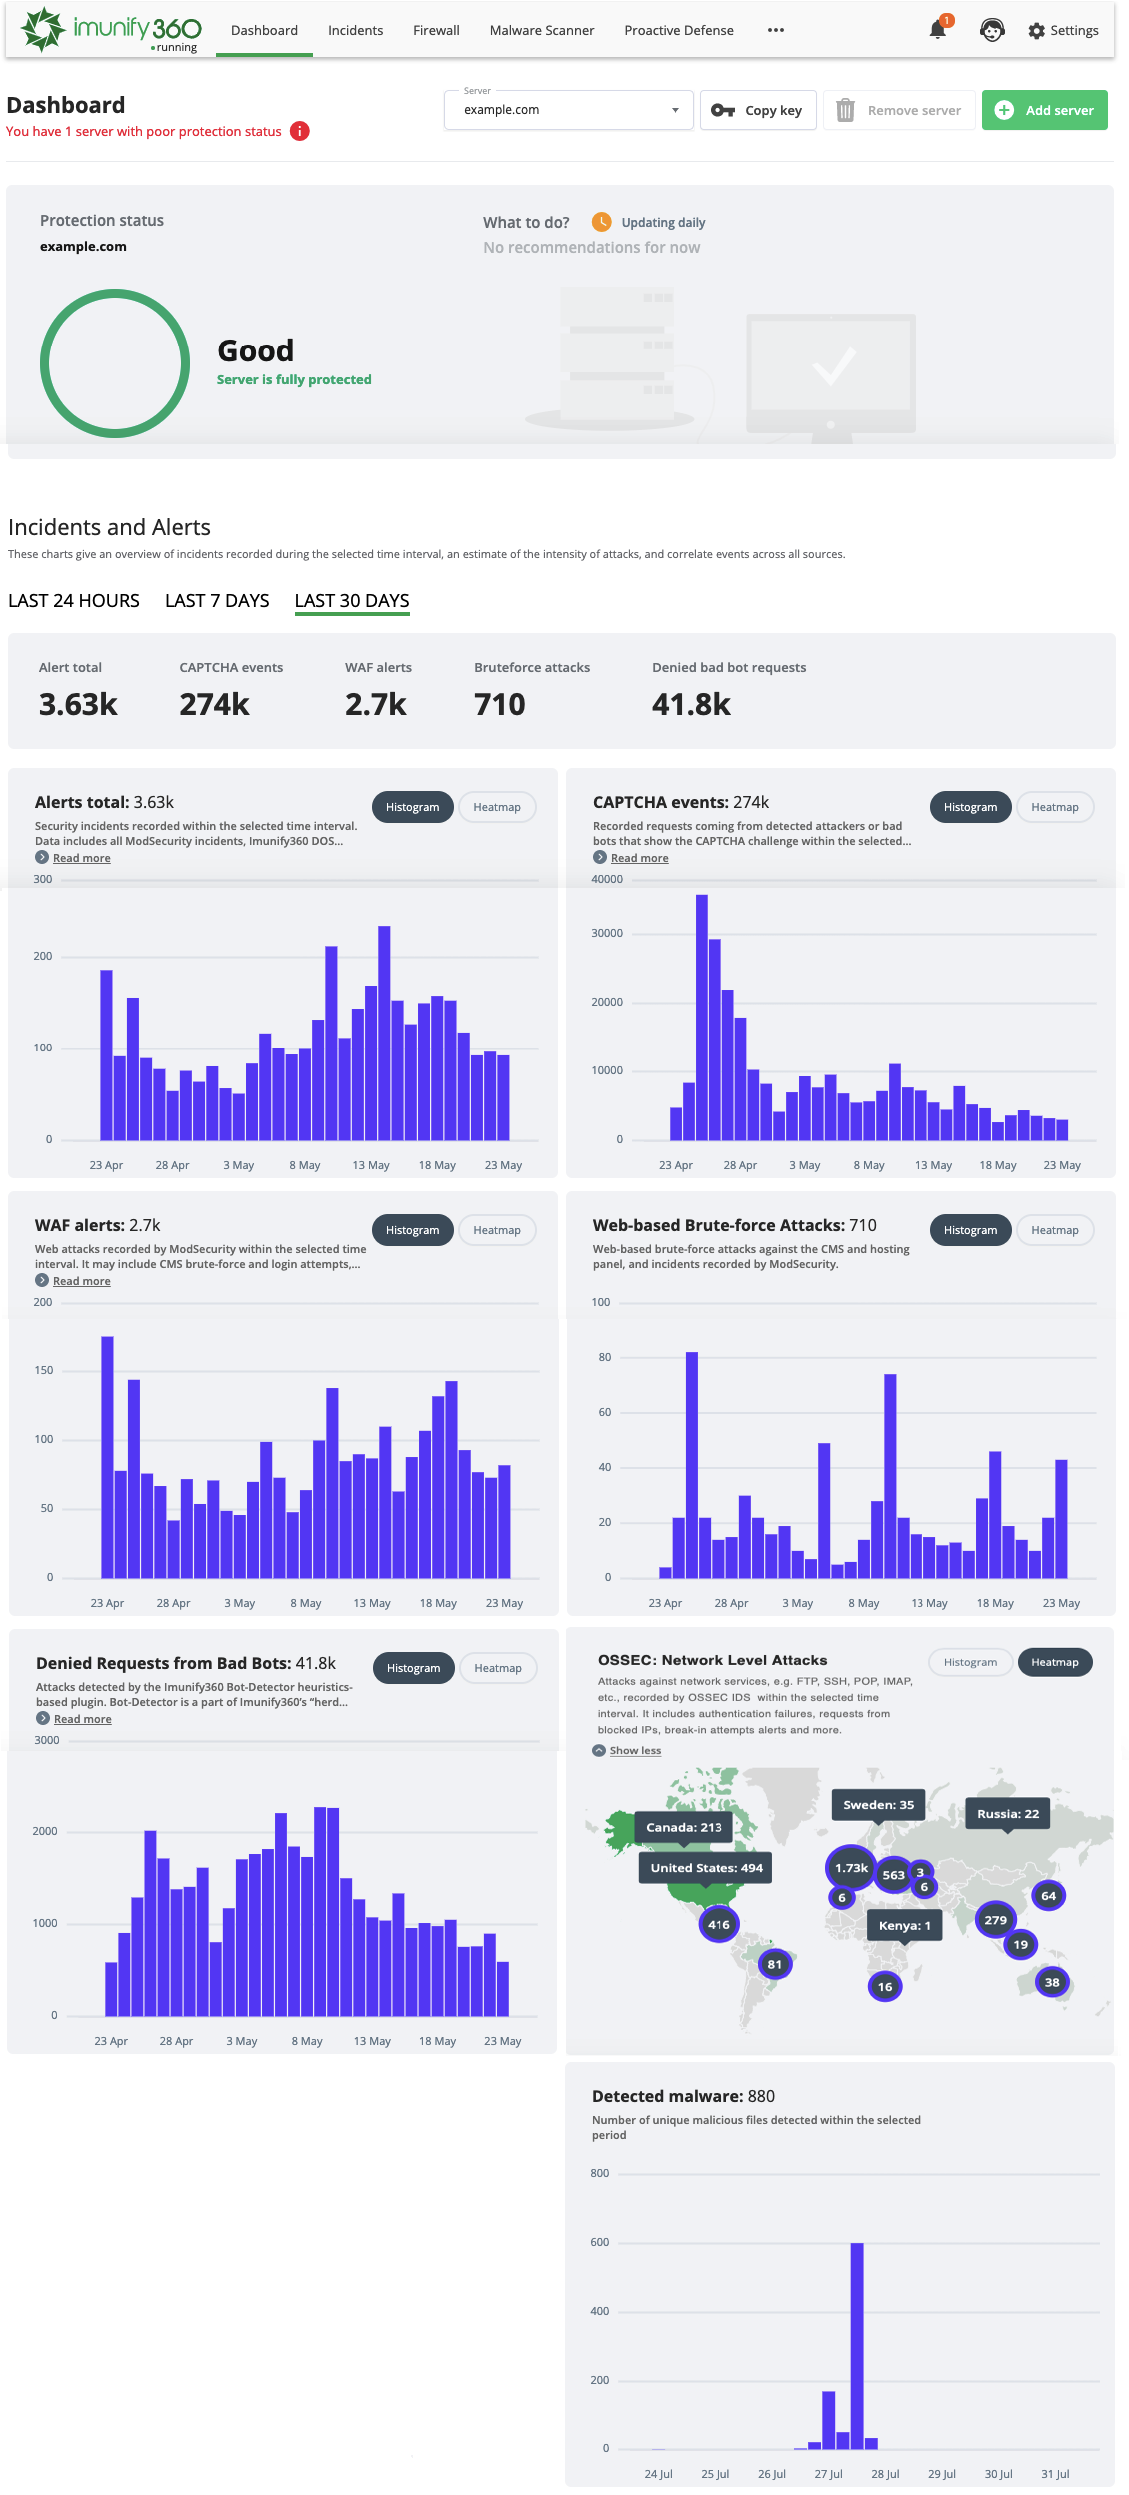
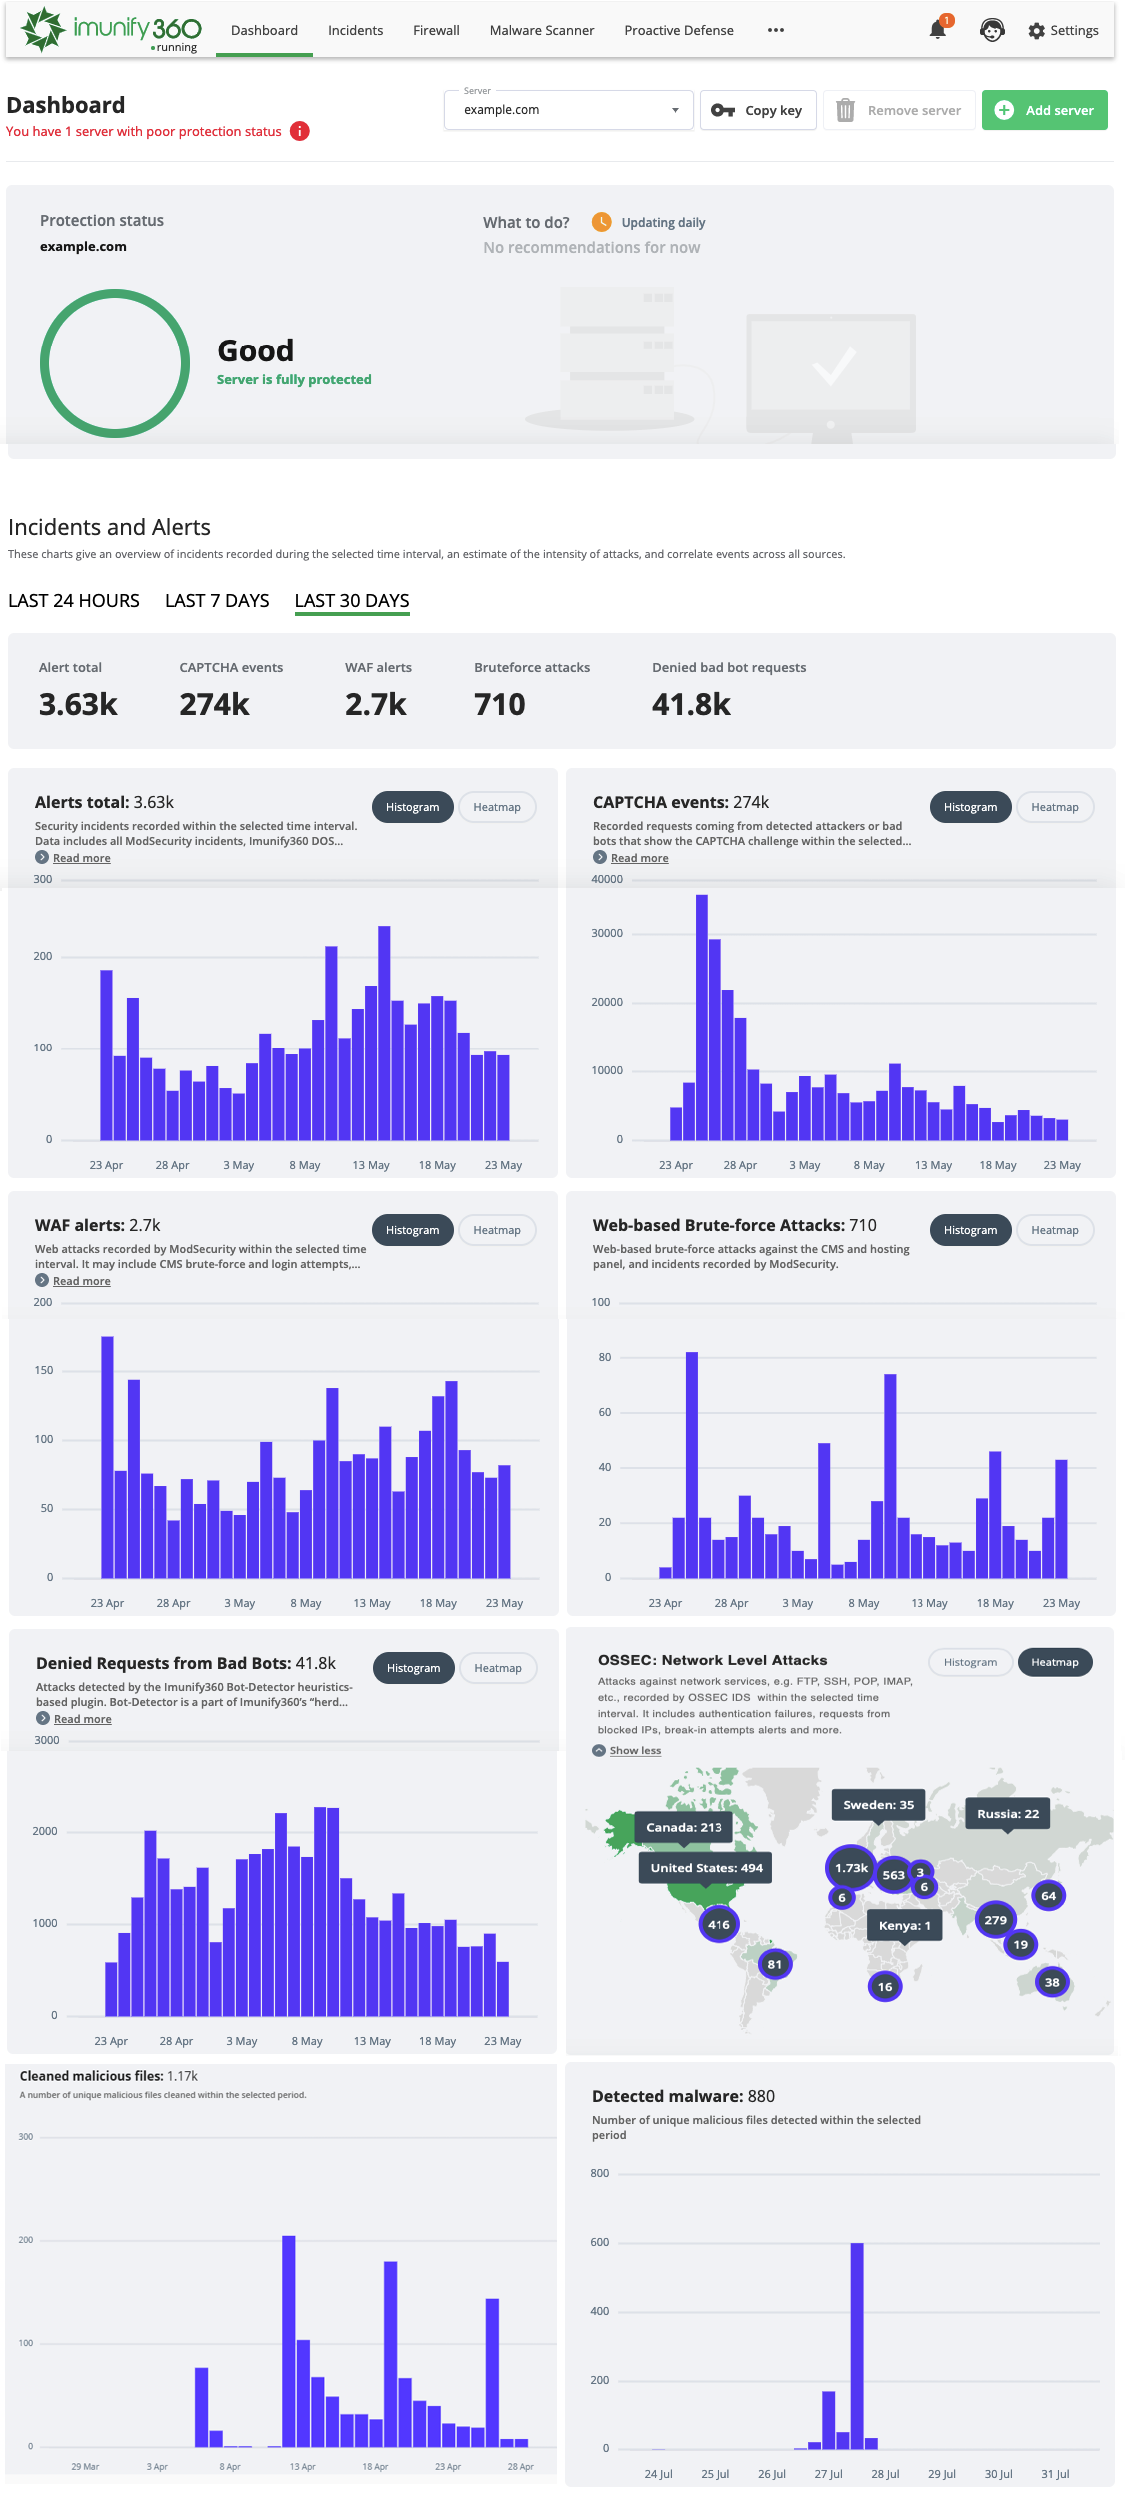
PT-1612: Imunify360 v4.8 (2)

diff --git a/docs/dashboard/README.md b/docs/dashboard/README.md
@@ -170,6 +170,10 @@ Attacks against network services, e.g. FTP, SSH, POP, IMAP, etc., recorded by OS
 
 Attacks detected by the Imunify360 Bot-Detector heuristics-based plugin. Bot-Detector is a part of Imunify360’s “herd immunity” feature that collects and analyzes a massive amount of information on new attacks on a global scale which it uses to prevent attacks across multiple servers.
 
+* **Cleaned malicious files**
+
+This chart lists the number of cleaned malicious files. 
+
 :::tip Note
 Some charts may be hidden if no alerts of a particular type were recorded within the selected time interval.
 :::
@@ -633,6 +637,9 @@ The following tabs are available:
 </div>
 
 Go to <span class="notranslate">Imunify360 → Malware Scanner → Users</span> tab. Here, there is a table with a list of users on the server, except users with root privileges.
+
+The badge in the <span class="notranslate">_History_</span> tab shows the number of missed events in the Malware Scanner’s History. You won’t miss any automatic actions applied to infected files, since they are listed in the <span class="notranslate">_History_</span> tab and shown in the badge.
+
 
 ![](/images/malwarescanner_users.png)
 
